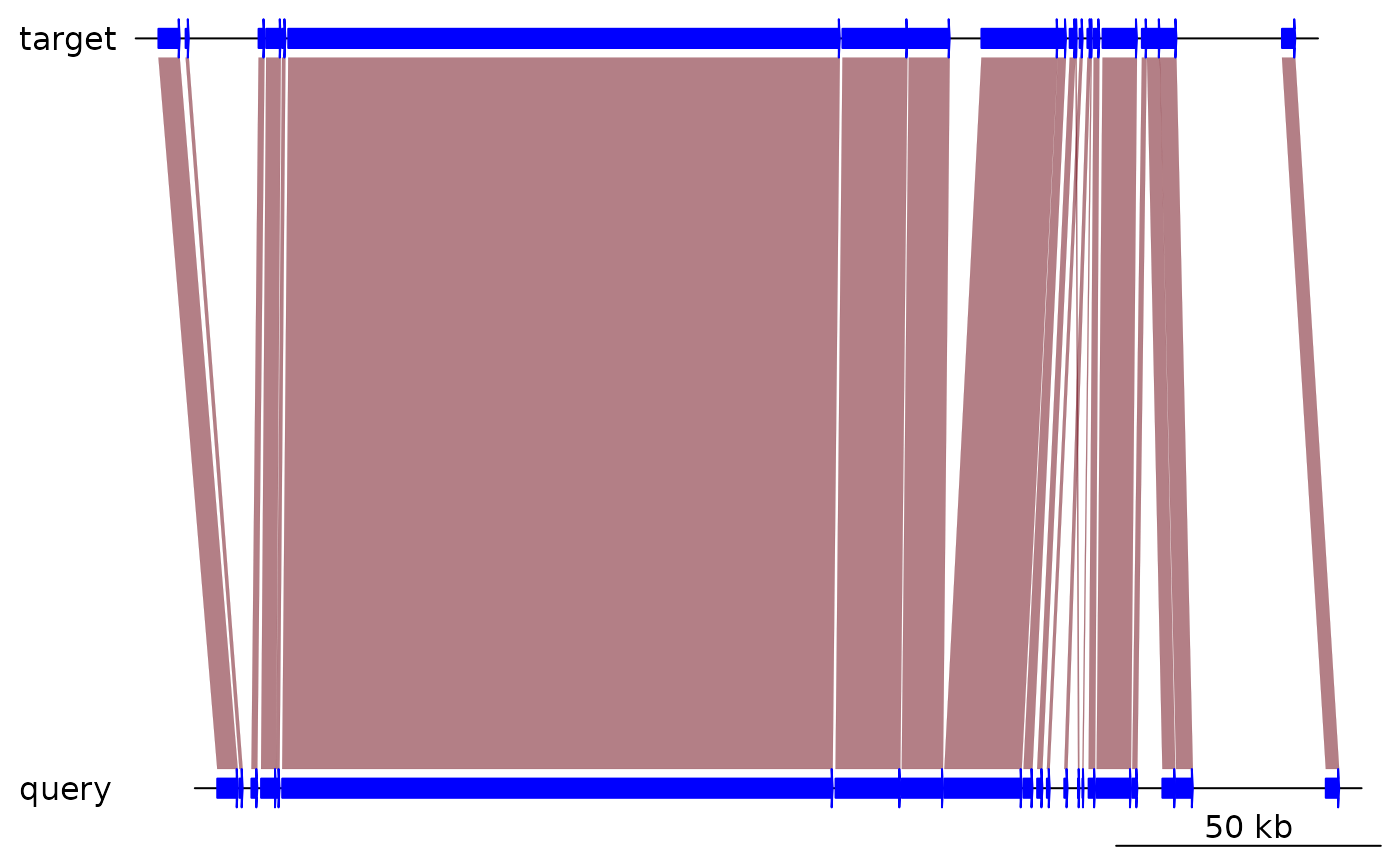
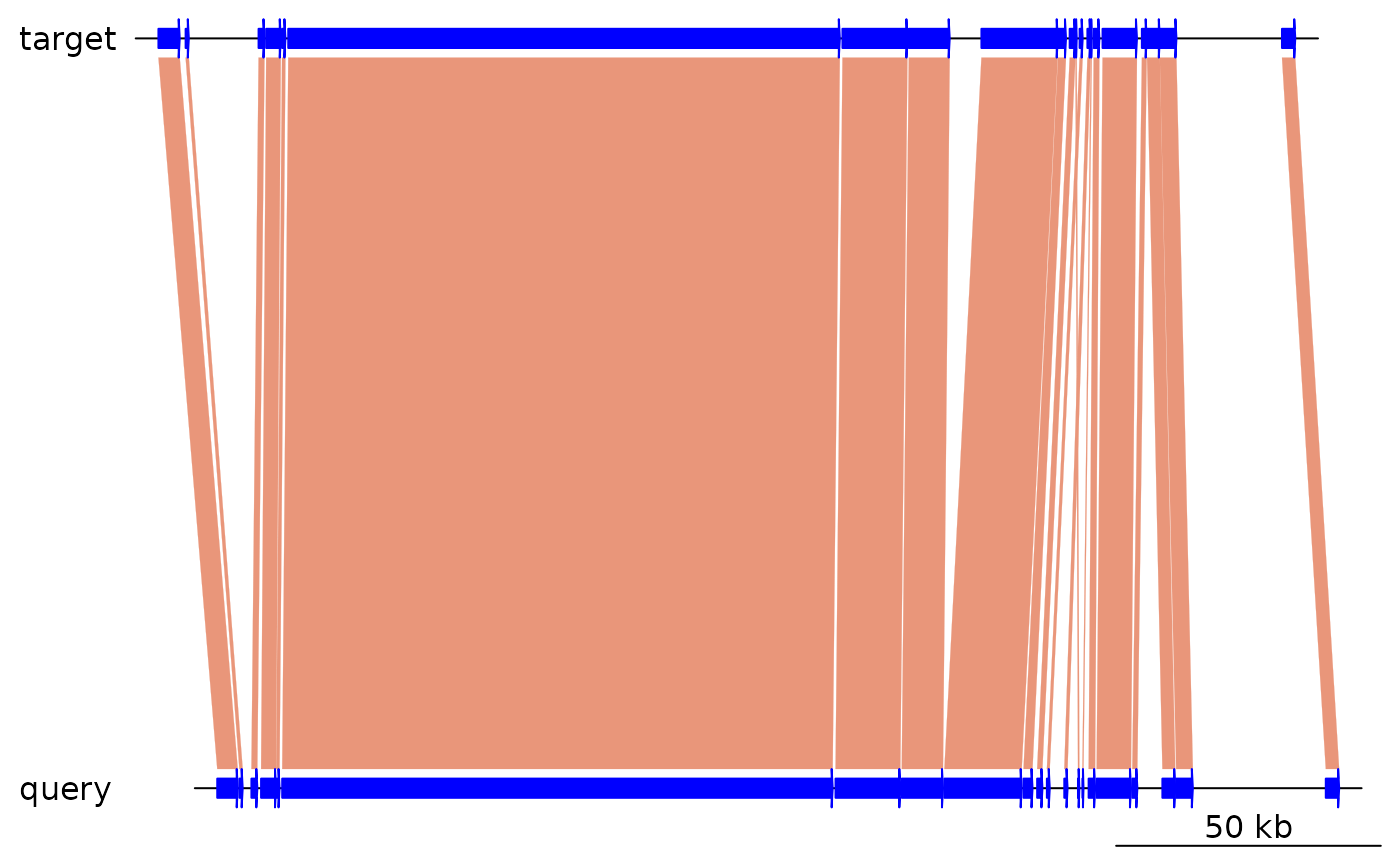
Built site for GenomicBreaks: 0.6.0@11e59a1

diff --git a/reference/gb2comp.html b/reference/gb2comp.html
@@ -160,10 +160,10 @@ object also conforms to this assumption.</p>
 <span class='va'>inv</span><span class='op'>$</span><span class='va'>query</span> <span class='op'>&lt;-</span> <span class='fu'>GRanges</span><span class='op'>(</span><span class='fu'><a href='https://rdrr.io/r/base/c.html'>c</a></span><span class='op'>(</span> <span class='st'>"S1:101-200"</span>,    <span class='st'>"S1:201-300"</span>,     <span class='st'>"S1:301-400"</span><span class='op'>)</span><span class='op'>)</span>
 <span class='va'>inv</span> <span class='op'>&lt;-</span> <span class='fu'><a href='GBreaks-class.html'>GBreaks</a></span><span class='op'>(</span><span class='va'>inv</span><span class='op'>)</span>
 <span class='fu'>gb2comp</span><span class='op'>(</span><span class='va'>inv</span><span class='op'>)</span>
-</div><div class='output co'>#&gt;   start1 end1 start2 end2 direction
-#&gt; 1    101  180    101  200         1
-#&gt; 2    201  300    201  300         1
-#&gt; 3    320  400    301  400         1</div><div class='input'>
+</div><div class='output co'>#&gt;   start1 end1 start2 end2 direction      color            col
+#&gt; 1    101  180    101  200         1 darksalmon     darksalmon
+#&gt; 2    201  300    300  201        -1 darksalmon cornflowerblue
+#&gt; 3    320  400    301  400         1 darksalmon     darksalmon</div><div class='input'>
 </div></pre>
   </div>
   <div class="col-md-3 hidden-xs hidden-sm" id="pkgdown-sidebar">

diff --git a/articles/GenomicBreaks.html b/articles/GenomicBreaks.html
@@ -445,8 +445,9 @@
 <div id="genome-plots-with-genoplotr" class="section level2">
 <h2 class="hasAnchor">
 <a href="#genome-plots-with-genoplotr" class="anchor"></a>Genome plots with genoPlotR</h2>
+<p>To visualise synteny it is clearer to plot from the coalseced objects.</p>
 <div class="sourceCode" id="cb47"><pre class="downlit sourceCode r">
-<code class="sourceCode R"><span class="fu"><a href="../reference/plotApairOfChrs.html">plotApairOfChrs</a></span><span class="op">(</span><span class="va">gb</span>, <span class="st">"chrI"</span><span class="op">)</span></code></pre></div>
+<code class="sourceCode R"><span class="fu"><a href="../reference/plotApairOfChrs.html">plotApairOfChrs</a></span><span class="op">(</span><span class="va">gb</span>,  <span class="st">"chrI"</span><span class="op">)</span></code></pre></div>
 <p><img src="GenomicBreaks_files/figure-html/test_genoPlotR-1.png" width="700"></p>
 <div class="sourceCode" id="cb48"><pre class="downlit sourceCode r">
 <code class="sourceCode R"><span class="fu"><a href="../reference/plotApairOfChrs.html">plotApairOfChrs</a></span><span class="op">(</span><span class="va">coa</span>, <span class="st">"chrI"</span><span class="op">)</span></code></pre></div>
